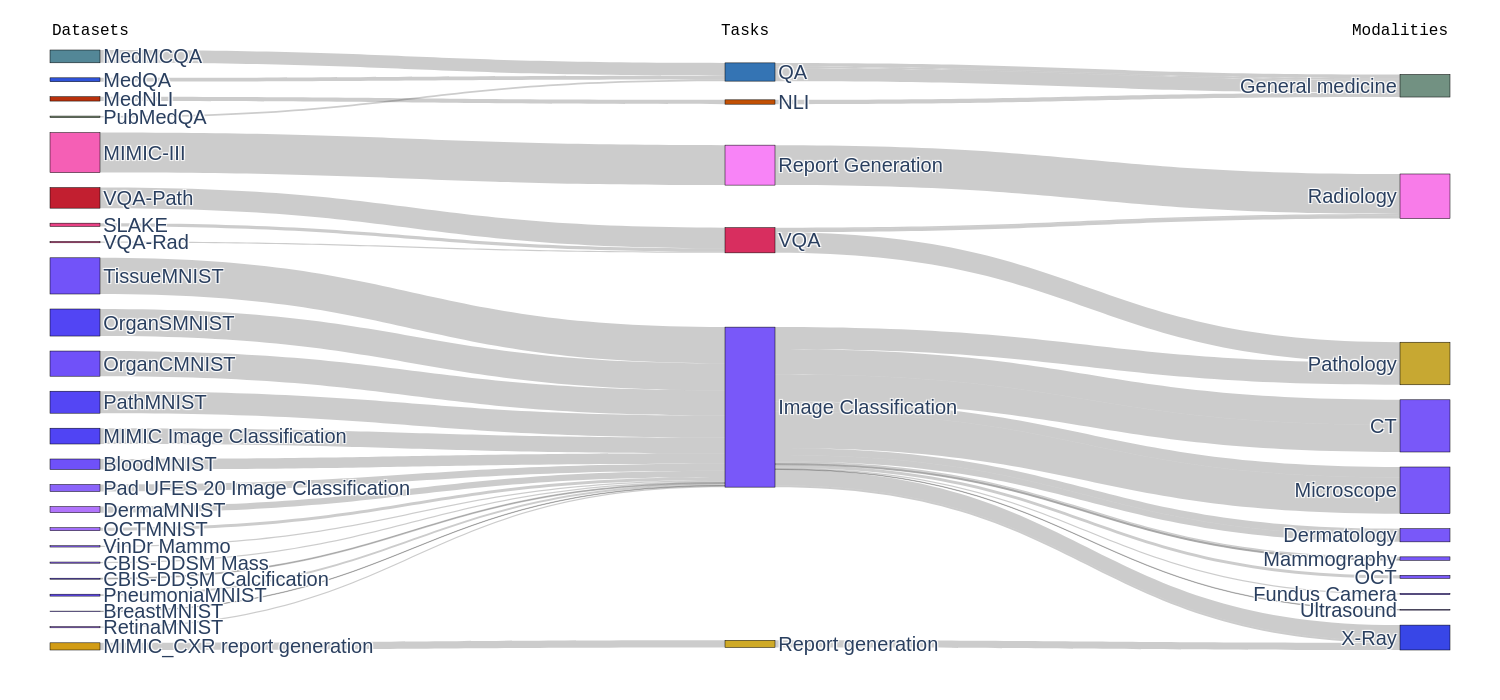
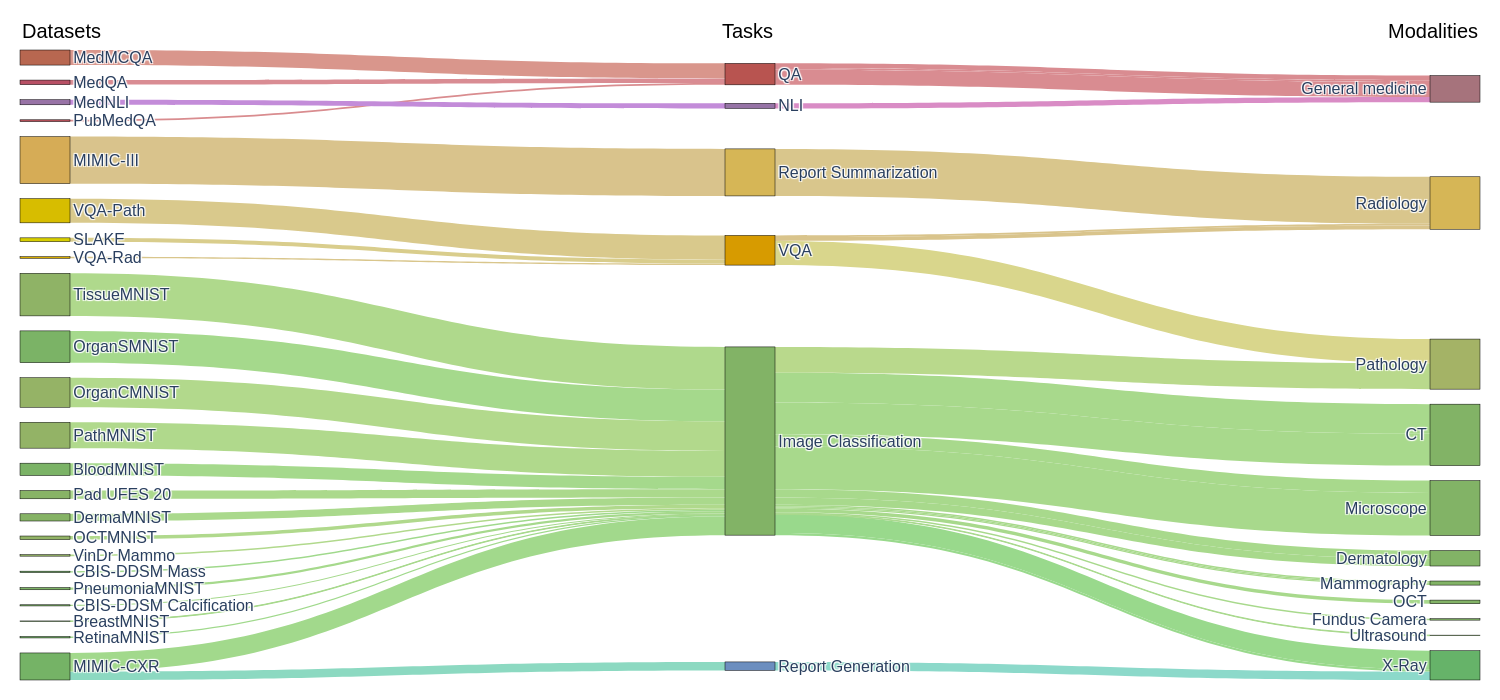
Improved Sankey diagram

diff --git a/multimedeval/visualization.py b/multimedeval/visualization.py
@@ -144,6 +144,7 @@ class BenchmarkVisualizer:
         import plotly.graph_objects as go
         import plotly.express as px
         import random
+        from colour import Color
 
         # The labels are the name of the datasets, the name of the tasks and the name of the modalities
         labelToIdx = {}
@@ -167,69 +168,61 @@ class BenchmarkVisualizer:
                 labelToIdx[dataset.modality] = len(labelToIdx)
                 modalities.add(dataset.modality)
 
-        # Create the colors: strong colors for the tasks and variations of the same color for the dataset with the same task
 
-        # Take colors from the G10 palette
-        indexToColor = {}
+        indexToColor:dict[int, Color] = {}
+        mainColors = ["#D6B656", "#6C8EBF", "#B85450", "#82B366", "#9673A6", "#D79B00"]
         for idx, task in enumerate(tasks):
-            indexToColor[labelToIdx[task]] = idx / len(tasks)
+            indexToColor[labelToIdx[task]] = Color(mainColors[idx])
 
         for dataset in self.datasets:
             # Sample a color based on the task of the dataset
-            taskColor = indexToColor[labelToIdx[dataset.task]]
+            taskColor:Color = indexToColor[labelToIdx[dataset.task]]
 
             # Sample small variation of the color for the dataset
-            rangeColor = 1 / len(tasks) / 2
-            datasetColor = (taskColor + random.uniform(-rangeColor, rangeColor)) % 1
+            rangeColor = 1 / len(tasks) / 4
+            datasetColor = Color(taskColor, hue=taskColor.get_hue() + random.uniform(-rangeColor, rangeColor) % 1)
             indexToColor[labelToIdx[dataset.taskName]] = datasetColor
 
         for idx, modality in enumerate(modalities):
             # Get all the tasks that have this modality
             taskColors = []
             taskWeights = []
+            baseColor = None
             for dataset in self.datasets:
                 if dataset.modality == modality:
-                    taskColors.append(indexToColor[labelToIdx[dataset.task]])
+                    taskColors.append(indexToColor[labelToIdx[dataset.task]].get_hue())
                     taskWeights.append(len(dataset))
+                    baseColor = indexToColor[labelToIdx[dataset.task]]
 
-            # Convert angles to Cartesian coordinates
-            x_coords = [math.cos(angle) for angle in taskColors]
-            y_coords = [math.sin(angle) for angle in taskColors]
-
-            # Calculate the weighted sums
-            weighted_sum_x = sum(w * x for w, x in zip(taskWeights, x_coords))
-            weighted_sum_y = sum(w * y for w, y in zip(taskWeights, y_coords))
-
-            # Calculate the weighted mean angle
-            weighted_mean_angle = math.atan2(weighted_sum_y, weighted_sum_x) % (2 * math.pi)
-
-            indexToColor[labelToIdx[modality]] = weighted_mean_angle
-
-        # Convert the colors to rgb
-        for idx, color in indexToColor.items():
-            indexToColor[idx] = px.colors.sample_colorscale("mrybm", color)[0]
+            weighted_mean_hue = self._averageCircular(taskColors, taskWeights)
+            indexToColor[labelToIdx[modality]] = Color(baseColor, hue=weighted_mean_hue)
 
         # Create the links
         source = []
         target = []
         value = []
-        color = []
+        linksColor = []
 
         for dataset in self.datasets:
             # Add the link between the dataset and the task
             source.append(labelToIdx[dataset.taskName])
             target.append(labelToIdx[dataset.task])
             value.append(len(dataset))
-            color.append(indexToColor[labelToIdx[dataset.taskName]] + indexToColor[labelToIdx[dataset.task]])
+            linksColor.append(self._averageCircular([indexToColor[labelToIdx[dataset.taskName]].get_hue(), indexToColor[labelToIdx[dataset.task]].get_hue()]))
 
             # Add the link between the task and the modality
             source.append(labelToIdx[dataset.task])
             target.append(labelToIdx[dataset.modality])
             value.append(len(dataset))
-            color.append(indexToColor[labelToIdx[dataset.task]] + indexToColor[labelToIdx[dataset.modality]])
+            linksColor.append(self._averageCircular([indexToColor[labelToIdx[dataset.task]].get_hue(), indexToColor[labelToIdx[dataset.modality]].get_hue()]))
+
+        for idx in range(len(linksColor)):
+            tempColor = Color(hsl=(linksColor[idx], 0.5, 0.7)).rgb
+            linksColor[idx] = f"rgb({tempColor[0] * 255}, {tempColor[1] * 255}, {tempColor[2] * 255})"
 
         labels = list(labelToIdx.keys())
-        colors = [indexToColor[labelToIdx[label]] for label in labels]
+        colors = [indexToColor[labelToIdx[label]].rgb for label in labels]
+        colors = [f"rgb({color[0] * 255}, {color[1] * 255}, {color[2] * 255})" for color in colors]
 
         # Create the figure
         fig = go.Figure(
@@ -246,6 +239,7 @@ class BenchmarkVisualizer:
                         source=source,
                         target=target,
                         value=value,
+                        color=linksColor,
                     ),
                 )
             ]
@@ -259,7 +253,7 @@ class BenchmarkVisualizer:
                 yref="paper",
                 text=column_name,
                 showarrow=False,
-                font=dict(family="Courier New, monospace", size=16, color="black"),
+                font=dict(family="Helvetica", size=20, color="black"),
                 align="center",
             )
 
@@ -275,14 +269,81 @@ class BenchmarkVisualizer:
                 "visible": False,  # numbers below
             },
             plot_bgcolor="rgba(0,0,0,0)",
-            font_size=20,
+            font_size=16,
+            font_family="Helvetica",
         )
 
         # Reduce margins
-        fig.update_layout(margin=dict(t=50, l=50, r=50, b=50))
+        fig.update_layout(margin=dict(t=50, l=20, r=20, b=20))
         # Increase font size of the labels
 
         fig.write_image(Path(self.folderName, "sankey.png"), scale=1.0, width=1500, height=700)
+
+    def sankeyD3Blocks(self):
+        from d3blocks import D3Blocks
+        import random
+        from colour import Color
+
+        print("======================= Creating sankey diagram with D3Blocks =======================")
+
+        dfAsList = []
+        tasks = set()
+        modalities = set()
+
+        for dataset in self.datasets:
+            task = dataset.task.replace("_", " ")
+            # Add the link between the dataset and the task
+            dfAsList.append((dataset.taskName, task, len(dataset)))
+
+            # Add the link between the task and the modality
+            dfAsList.append((task, dataset.modality, len(dataset)))
+
+            tasks.add(task)
+            modalities.add(dataset.modality)
+
+        # Take colors from the G10 palette
+        nameToColor = {}
+        for idx, task in enumerate(tasks):
+            nameToColor[task] = (idx / len(tasks) + 0.5) % 1
+
+        for dataset in self.datasets:
+            # Sample a color based on the task of the dataset
+            taskColor = nameToColor[dataset.task.replace("_", " ")]
+
+            # Sample small variation of the color for the dataset
+            rangeColor = 1 / len(tasks) / 4
+            datasetColor = (taskColor + random.uniform(-rangeColor, rangeColor)) % 1
+            nameToColor[dataset.taskName] = datasetColor
+
+        for idx, modality in enumerate(modalities):
+            # Get all the tasks that have this modality
+            taskColors = []
+            taskWeights = []
+            for dataset in self.datasets:
+                if dataset.modality == modality:
+                    taskColors.append(nameToColor[dataset.task])
+                    taskWeights.append(len(dataset))
+
+            weighted_mean_angle = self._averageCircular(taskColors, taskWeights)
+
+            nameToColor[modality] = weighted_mean_angle
+
+        # Convert every color to hex
+        for name, color in nameToColor.items():
+            tempColor = Color(hsl=(color, 0.5, 0.4)).hex
+            nameToColor[name] = tempColor
+
+        df = pd.DataFrame(dfAsList, columns=["source", "target", "weight"])
+        print(df)
+
+        d3 = D3Blocks(chart="Sankey", frame=True)
+        
+        # Change the font
+        d3.set_node_properties(df, width=30, color=nameToColor)
+
+        d3.set_edge_properties(df, color="source-target", opacity=0.8)
+
+        d3.show(filepath="tempSankey.html", figsize=(1000, 700))
 
     def _importPlotly(self):
         try:
@@ -290,3 +351,21 @@ class BenchmarkVisualizer:
         except ImportError:
             print("Plotly is not installed. Please install it with `pip install plotly`")
             exit(1)
+
+    def _averageCircular(self, angles, weights=None):
+        # Convert angles to Cartesian coordinates
+        x_coords = [math.cos(angle * 2 * math.pi) for angle in angles]
+        y_coords = [math.sin(angle * 2 * math.pi) for angle in angles]
+
+        # Calculate the weighted sums
+        if weights is None:
+            weights = [1] * len(x_coords)
+            
+        weighted_sum_x = sum(w * x for w, x in zip(weights, x_coords))
+        weighted_sum_y = sum(w * y for w, y in zip(weights, y_coords))
+
+        # Calculate the weighted mean angle
+        weightedAngle = math.atan2(weighted_sum_y, weighted_sum_x) % (2 * math.pi)
+
+        # Convert to [0, 1] range
+        return weightedAngle / (2 * math.pi)

diff --git a/multimedeval/imageClassification.py b/multimedeval/imageClassification.py
@@ -128,7 +128,7 @@ class MIMIC_CXR_ImageClassification(ImageClassification):
         if not self.engine.tasksReady["Chexbert"]["ready"]:
             raise Exception("Chexbert is needed for the Image classification task on MIMIC-CXR but it is not ready.")
 
-        self.taskName = "MIMIC Image Classification"
+        self.taskName = "MIMIC-CXR"
         self.modality = "X-Ray"
         self.scoringType = "multilabel"
 
@@ -338,7 +338,7 @@ class Pad_UFES_20(ImageClassification):
     def __init__(self, **kwargs) -> None:
         super().__init__(**kwargs)
 
-        self.taskName = "Pad UFES 20 Image Classification"
+        self.taskName = "Pad UFES 20"
         self.modality = "Dermatology"
 
         self.num_classes = 7

diff --git a/multimedeval/mimic.py b/multimedeval/mimic.py
@@ -33,9 +33,9 @@ class MIMIC_CXR_reportgen(Benchmark):
         super().__init__(**kwargs)
         logging.debug("***** Transfer task : MIMIC_CXR *****\n\n")
 
-        self.taskName = "MIMIC_CXR report generation"
+        self.taskName = "MIMIC-CXR"
         self.modality = "X-Ray"
-        self.task = "Report generation"
+        self.task = "Report Generation"
 
         self.bleu_1 = BLEUScore(n_gram=1)
         self.bleu_2 = BLEUScore(n_gram=2)

diff --git a/testTasks.py b/testTasks.py
@@ -6,7 +6,7 @@ def batcher(prompts):
     print(prompts[0])
     return ["entailment" for _ in range(len(prompts))]
 
-writer = SummaryWriter("testTensorboard")
+writer = None # SummaryWriter("testTensorboard")
 
 engine = MultiMedEval(
     params=Params(batch_size=64, fewshot=True, num_workers=8, tensorBoardWriter=writer), batcher=batcher, generateVisualization=True

diff --git a/multimedeval/mimic_iii.py b/multimedeval/mimic_iii.py
@@ -76,7 +76,7 @@ class MIMIC_III(Benchmark):
         super().__init__(**kwargs)
         self.taskName = "MIMIC-III"
         self.modality = "Radiology"
-        self.task = "Report Generation"
+        self.task = "Report Summarization"
 
         self.bleu_1 = BLEUScore(n_gram=1)
         self.bleu_2 = BLEUScore(n_gram=2)

diff --git a/multimedeval/engine.py b/multimedeval/engine.py
@@ -151,6 +151,7 @@ class MultiMedEval(object):
             visualizer.sunburstTasks()
             visualizer.tableImageClassification()
             visualizer.sankeyDiagram()
+            visualizer.sankeyD3Blocks()
 
     def eval(self, name: str | list[str]):
         if self.batcher is None:
